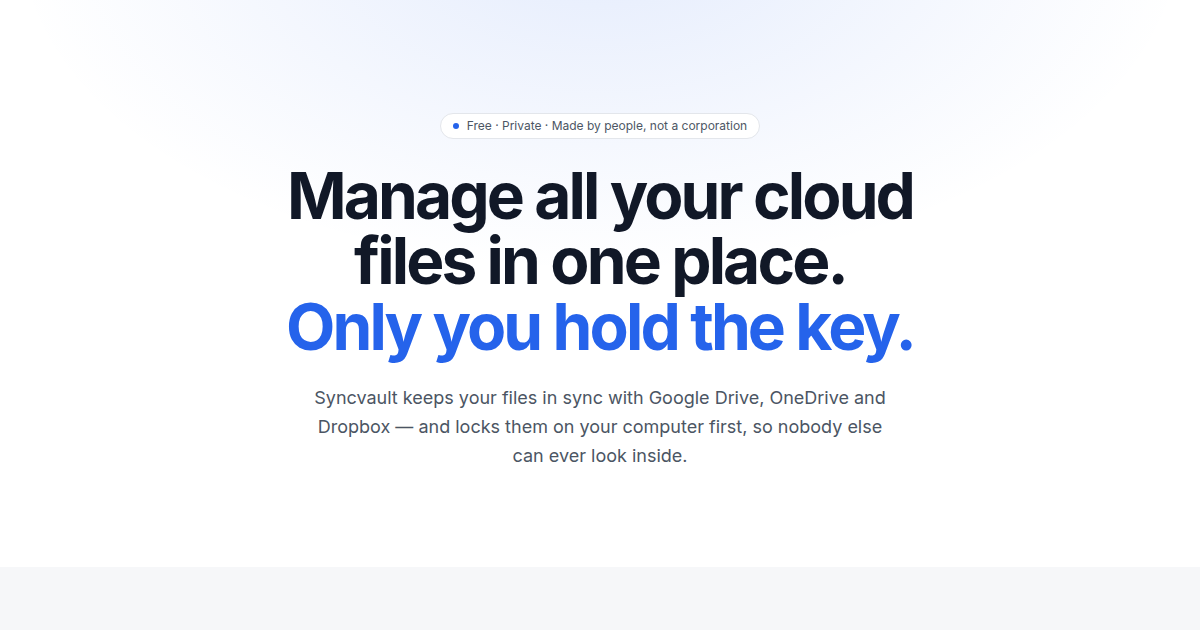
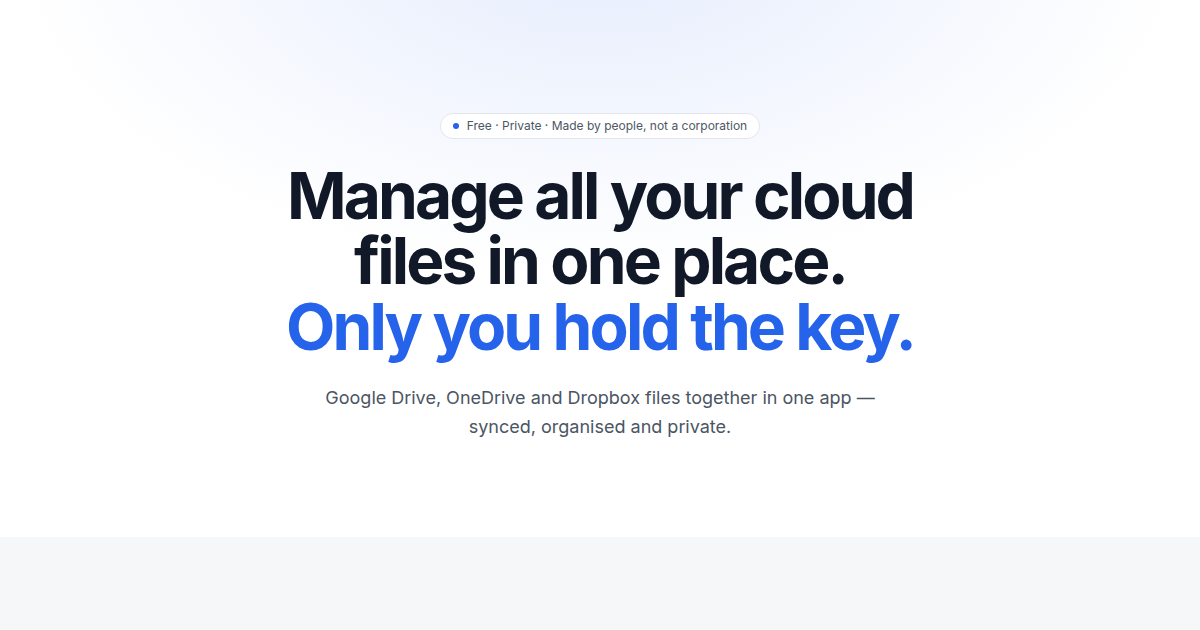
feat(web): new hero subtitle
"Google Drive, OneDrive and Dropbox files together in one app — synced, organised and private."
Also used for the meta description and the social share image.

Changed region(s): [[0.2467, 0.6032, 0.74, 0.754]]

diff --git a/apps/web/src/site.ts b/apps/web/src/site.ts
@@ -4,7 +4,7 @@ export const SITE = {
   url: 'https://getsyncvault.com',
   title: 'Syncvault — Manage all your cloud files in one place. Only you hold the key.',
   description:
-    'Free, open-source app that keeps your files in sync with Google Drive, OneDrive and Dropbox — and locks them on your computer first, so nobody else can look inside.',
+    'Free, open-source desktop app. Google Drive, OneDrive and Dropbox files together in one app — synced, organised and private.',
   links: {
     // TODO(release): point at the Linux release page once the first build is published.
     download: '#download',
